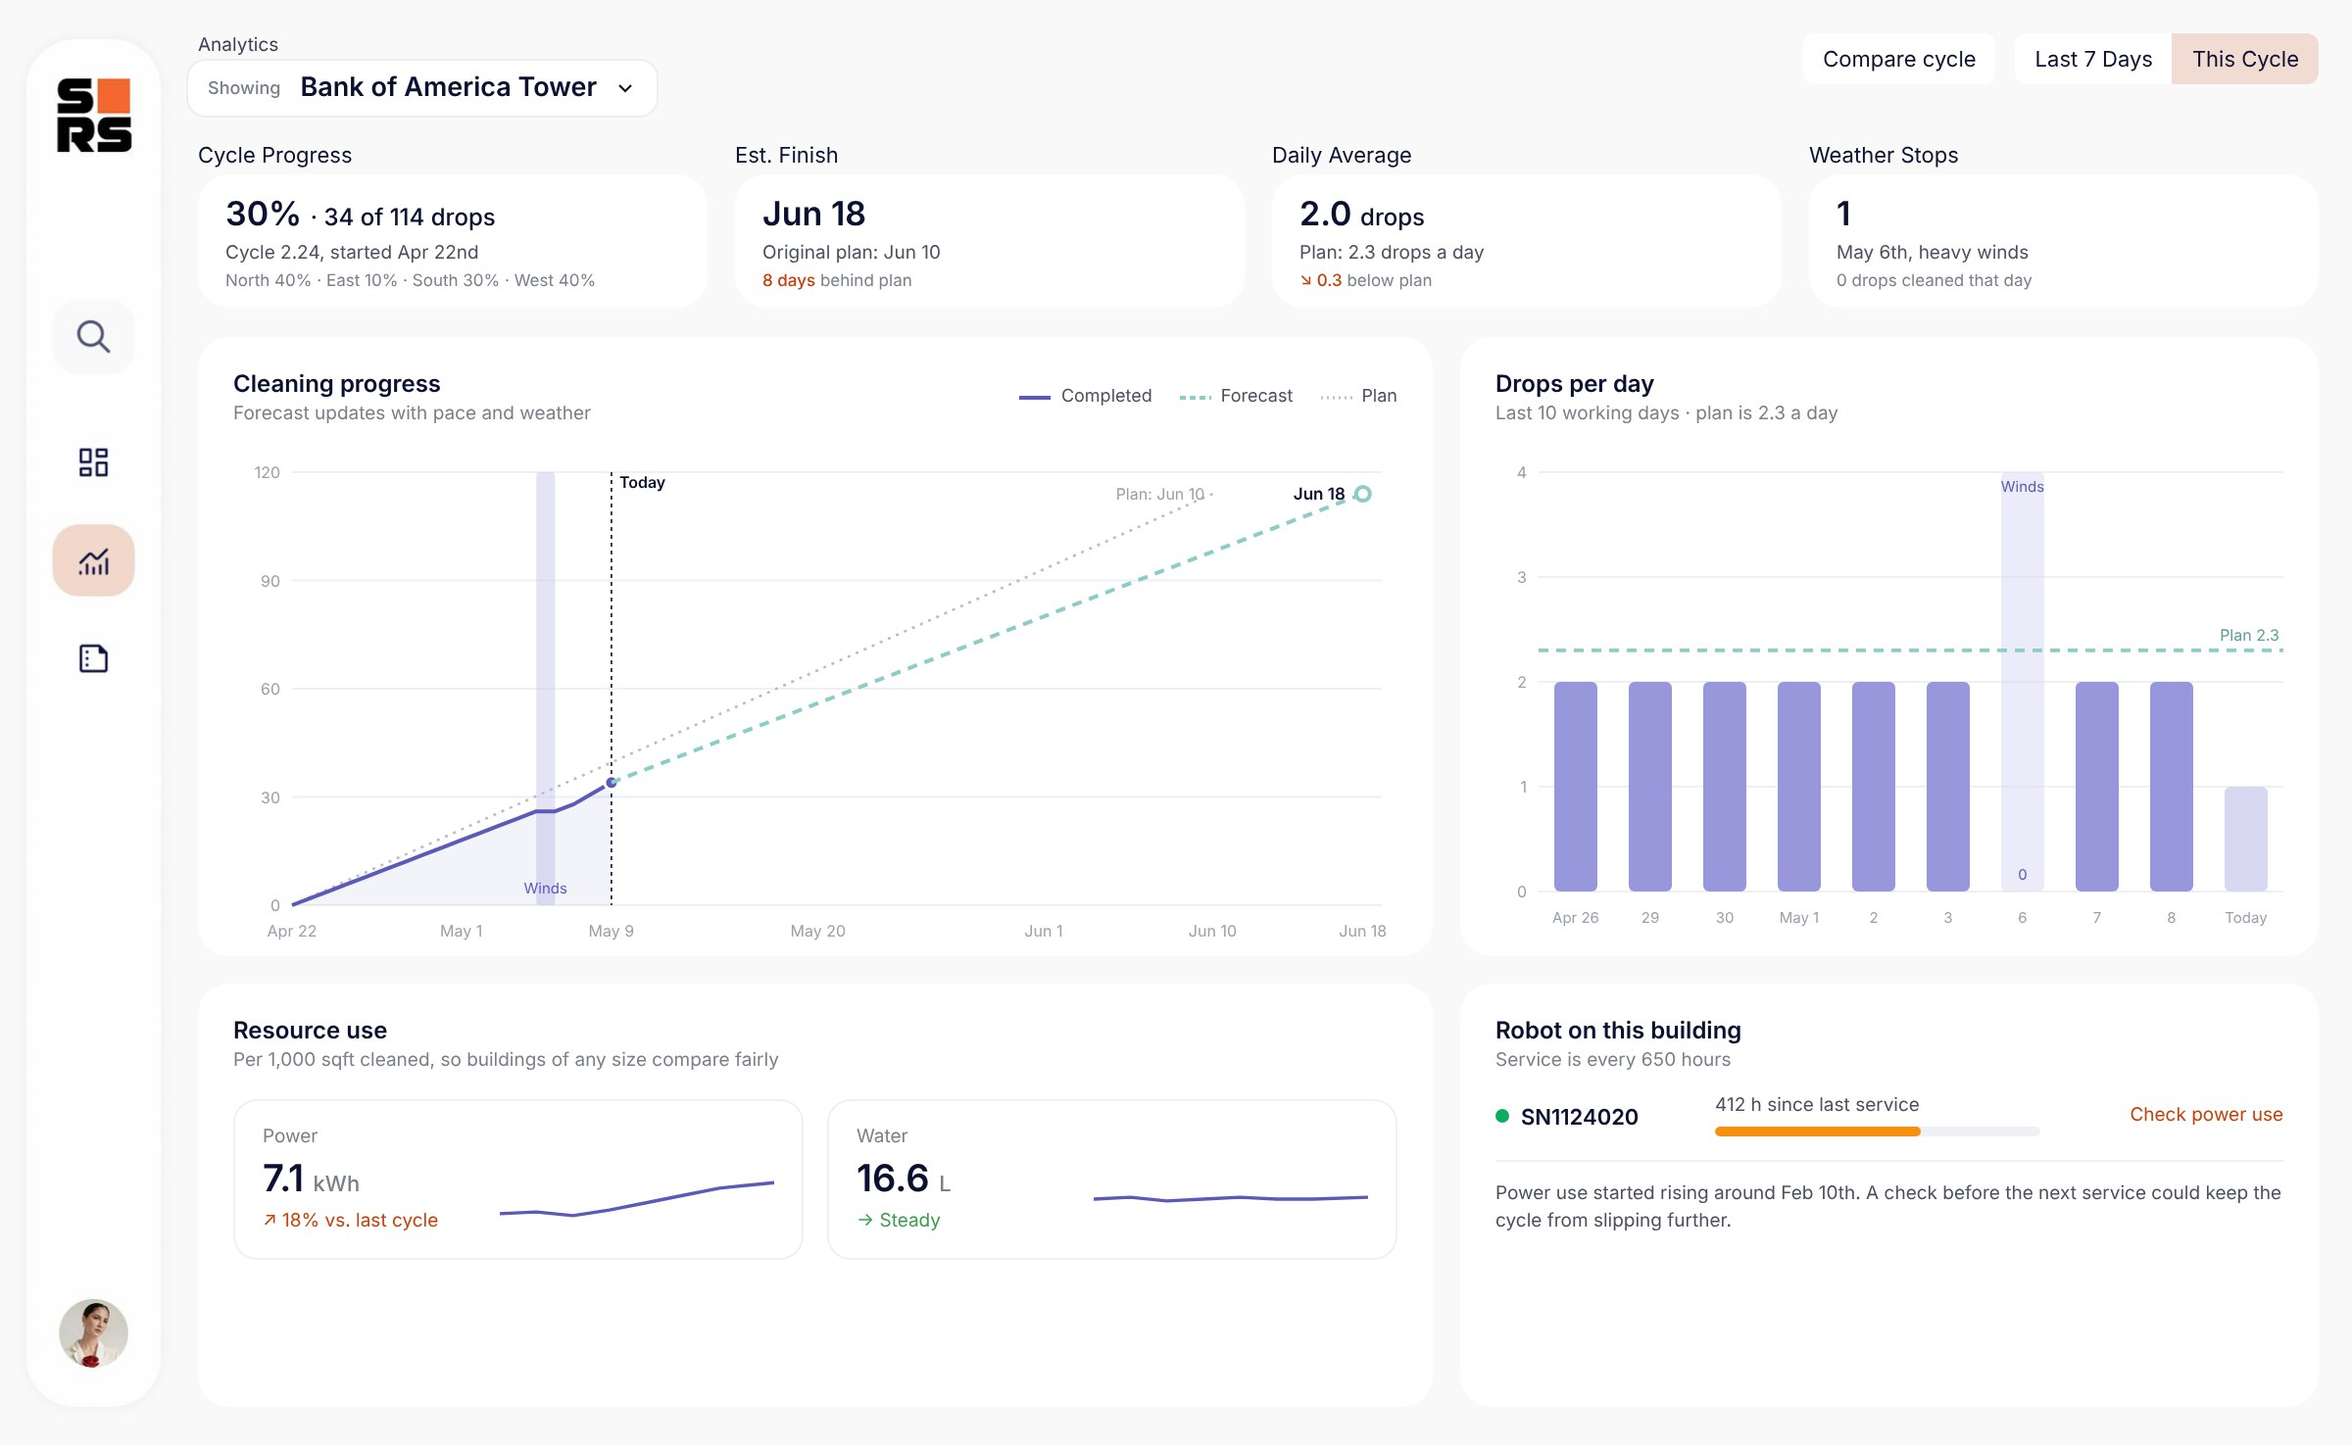
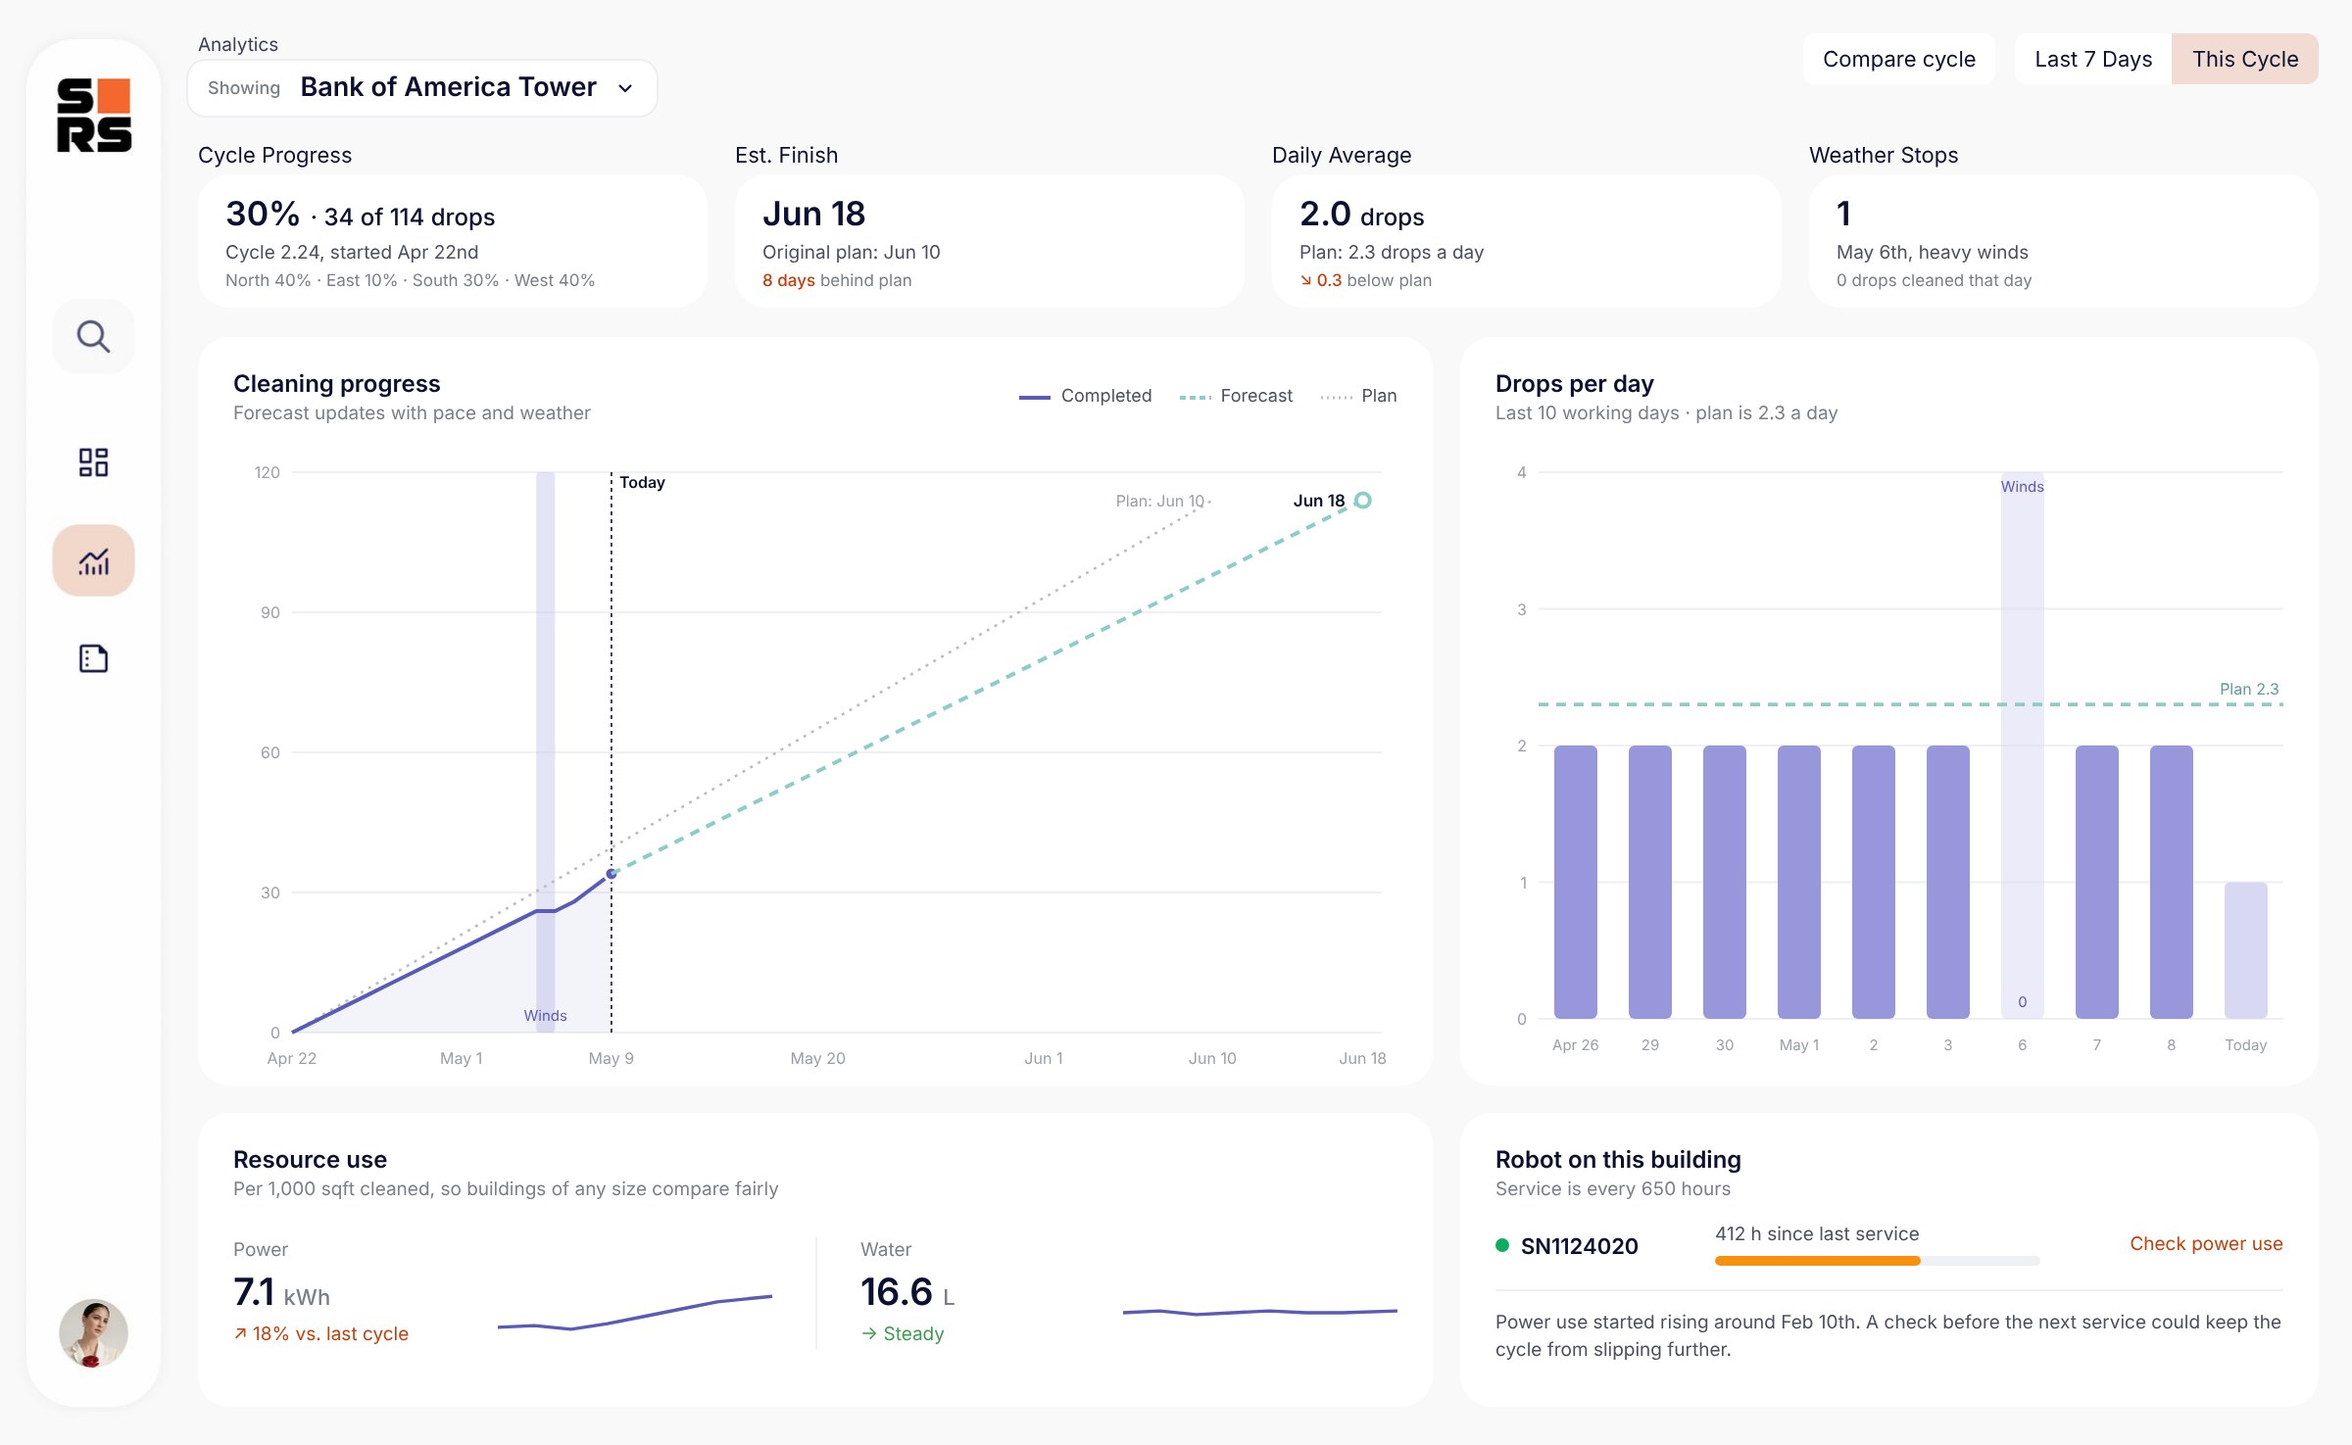
Skyline building analytics: flat resource columns, taller charts
Also version the updated screenshots so browsers load the new ones.

Claude-Session: https://claude.ai/code/session_01J9yPeBdVcBmf13JRMLxGDT

diff --git a/skyline.html b/skyline.html
@@ -86,7 +86,7 @@
     <p class="eyebrow">The platform</p>
     <h2>From the whole fleet down to a single window</h2>
     
-    <div class="stack" style="margin-top: clamp(40px, 5vw, 64px)"><div class="step"><p class="steplabel">The way in</p><h3 class="subhead">Login: Facade Analytics</h3><p class="lead">A simple sign-in screen. The illustration shows the idea behind the product: seeing what happens on the outside of the building.</p><div class="shot"><img src="/img/skyline/login.jpg" alt="Login screen: “Welcome to Skyline’s Facade Analytics. Data, outside the four walls” next to the sign-in form" width="2400" height="1467" loading="lazy" decoding="async"></div></div><div class="step"><p class="steplabel">Level 1 · Entry point</p><h3 class="subhead">Global Fleet Overview</h3><p class="lead">The owner’s entry point answers one question first: is anything wrong right now? What needs attention sits above the areas, and the areas are sorted by priority.</p><div class="shot"><img src="/img/skyline/fleet.jpg" alt="Fleet overview: savings, robots online, cycles on time and robot utilization; a Needs your attention list with a building paused for 5 days and a building running 8 days late; and areas sorted by priority with buildings on schedule, robots online, weather and buildings" width="2400" height="1475" loading="lazy" decoding="async"></div><ul class="callouts" style="--cols: 3"><li><h3>KPI cards</h3><p>Savings, robots online, cycles on time and robot utilization, each with its trend.</p></li><li><h3>Needs your attention</h3><p>Buildings at risk of missing a customer deadline, with the reason and a link to the building.</p></li><li><h3>Areas by priority</h3><p>Critical first, with a color edge, buildings on schedule, robots online and live weather per area.</p></li></ul></div><div class="step"><p class="steplabel">Level 2 · Regional</p><h3 class="subhead">Regional Drill-Down (NYC)</h3><p class="lead">The area manager’s entry point: buildings that need attention come first, each with the reason, next to a map with the same statuses.</p><div class="shot"><img src="/img/skyline/region.jpg" alt="New York region: buildings that need attention listed first with the reason, the rest with cleaning progress, next to a city map with status pins" width="2400" height="1475" loading="lazy" decoding="async"></div><ul class="callouts" style="--cols: 3"><li><h3>Reason, not just status</h3><p>Each warning says what happened, like an open window or low water pressure.</p></li><li><h3>Summary bar</h3><p>Buildings, cleaning now, needs attention and robots online, at a glance.</p></li><li><h3>Weather widget</h3><p>Temperature and wind, right next to the buildings.</p></li></ul></div><div class="step"><p class="steplabel">Level 3 · Building detail</p><h3 class="subhead">Building Deep-Dive</h3><p class="lead">Window-by-window progress for a single building, with overall progress, an estimated finish date and a cleaning log that records every day of the cycle, including weather stops.</p><div class="shot"><img src="/img/skyline/building.jpg" alt="Single building view: cleaning log with a heavy-winds stop, facade tabs above a window grid of the north facade, and overall progress with today’s drops" width="2400" height="1475" loading="lazy" decoding="async"></div><ul class="callouts" style="--cols: 3"><li><h3>Facade tabs</h3><p>North, east, south and west, each with its own progress.</p></li><li><h3>Window grid</h3><p>The facade as a grid, with the live cleaning status of every window.</p></li><li><h3>Today</h3><p>Drops done, in progress and next, and whether the day is on track.</p></li></ul></div><div class="step"><p class="steplabel">Building setup</p><h3 class="subhead">Building Onboarding</h3><p class="lead">Every window in the view above has to be mapped before a robot can start. I designed the screen where the operator enters it on-site, with no developer in between: one drop, duplicated across the facade, with soft checks that catch typos before they reach the robot.</p><div class="proto-video"><video src="/img/building-onboarding/prototype.mp4" poster="/img/building-onboarding/prototype-poster.jpg" width="1440" height="900" autoplay muted loop playsinline preload="metadata" aria-label="Walkthrough of the Add New Building screen: a soft check catches a 12 m window width, the window sequence is edited live on the facade, and the facade is duplicated to a shorter side"></video></div><script>(function(){var v=document.currentScript.previousElementSibling.querySelector("video");if(matchMedia("(prefers-reduced-motion: reduce)").matches){v.removeAttribute("autoplay");v.pause();v.controls=true}})()</script><a class="link-card" href="/building-onboarding"><span><b>Building Onboarding</b> · Read the full case study</span><svg width="14" height="14" viewBox="0 0 16 16" fill="none" aria-hidden="true"><path d="M3 8h9M8.5 4.5 12 8l-3.5 3.5" stroke="currentColor" stroke-width="1.5" stroke-linecap="square"/></svg></a></div><div class="step"><p class="steplabel">Level 4 · Analytics</p><h3 class="subhead">Analytics for the fleet or a single building</h3><p class="lead">One analytics screen with a switch at the top. All buildings shows the business view an owner needs. A single building shows why it’s behind.</p><div class="shot"><img src="/img/skyline/analytics.jpg" alt="Fleet analytics: savings, utilization, cycles on time and cost per 1,000 sqft; where robot time goes; the five buildings to look at; savings over the year; cycles finished on time against the target" width="2400" height="1475" loading="lazy" decoding="async"></div><div class="shot"><img src="/img/skyline/analytics-building.jpg" alt="Single building analytics: progress against plan with a forecast finish date, drops per day, resource use and the robot’s service status" width="2400" height="1475" loading="lazy" decoding="async"></div><ul class="callouts" style="--cols: 3"><li><h3>Business view</h3><p>Savings, robot utilization, cycles on time and cost per 1,000 sqft, each with its trend.</p></li><li><h3>Buildings to look at</h3><p>The five buildings most out of range, and why, one click from their analytics.</p></li><li><h3>Building view</h3><p>Progress against the plan with a forecast finish date, daily pace and the robot’s service status.</p></li></ul></div><div class="step"><p class="steplabel">Level 4 · Reports</p><h3 class="subhead">Operational analytics</h3><p class="lead">Performance scores, completed drops and water consumption per building, for client and sustainability reporting.</p><div class="shot"><img src="/img/skyline/reports.jpg" alt="Report view with performance scores, completed drops and water consumption per building" width="2400" height="1475" loading="lazy" decoding="async"></div><ul class="callouts" style="--cols: 3"><li><h3>Performance scores</h3><p>Actual against expected performance, per building.</p></li><li><h3>Completed drops</h3><p>Historical data on completed operations.</p></li><li><h3>Water consumption</h3><p>Usage per day, with anomaly alerts for unusual use.</p></li></ul></div></div>
+    <div class="stack" style="margin-top: clamp(40px, 5vw, 64px)"><div class="step"><p class="steplabel">The way in</p><h3 class="subhead">Login: Facade Analytics</h3><p class="lead">A simple sign-in screen. The illustration shows the idea behind the product: seeing what happens on the outside of the building.</p><div class="shot"><img src="/img/skyline/login.jpg" alt="Login screen: “Welcome to Skyline’s Facade Analytics. Data, outside the four walls” next to the sign-in form" width="2400" height="1467" loading="lazy" decoding="async"></div></div><div class="step"><p class="steplabel">Level 1 · Entry point</p><h3 class="subhead">Global Fleet Overview</h3><p class="lead">The owner’s entry point answers one question first: is anything wrong right now? What needs attention sits above the areas, and the areas are sorted by priority.</p><div class="shot"><img src="/img/skyline/fleet.jpg?v=3" alt="Fleet overview: savings, robots online, cycles on time and robot utilization; a Needs your attention list with a building paused for 5 days and a building running 8 days late; and areas sorted by priority with buildings on schedule, robots online, weather and buildings" width="2400" height="1475" loading="lazy" decoding="async"></div><ul class="callouts" style="--cols: 3"><li><h3>KPI cards</h3><p>Savings, robots online, cycles on time and robot utilization, each with its trend.</p></li><li><h3>Needs your attention</h3><p>Buildings at risk of missing a customer deadline, with the reason and a link to the building.</p></li><li><h3>Areas by priority</h3><p>Critical first, with a color edge, buildings on schedule, robots online and live weather per area.</p></li></ul></div><div class="step"><p class="steplabel">Level 2 · Regional</p><h3 class="subhead">Regional Drill-Down (NYC)</h3><p class="lead">The area manager’s entry point: buildings that need attention come first, each with the reason, next to a map with the same statuses.</p><div class="shot"><img src="/img/skyline/region.jpg" alt="New York region: buildings that need attention listed first with the reason, the rest with cleaning progress, next to a city map with status pins" width="2400" height="1475" loading="lazy" decoding="async"></div><ul class="callouts" style="--cols: 3"><li><h3>Reason, not just status</h3><p>Each warning says what happened, like an open window or low water pressure.</p></li><li><h3>Summary bar</h3><p>Buildings, cleaning now, needs attention and robots online, at a glance.</p></li><li><h3>Weather widget</h3><p>Temperature and wind, right next to the buildings.</p></li></ul></div><div class="step"><p class="steplabel">Level 3 · Building detail</p><h3 class="subhead">Building Deep-Dive</h3><p class="lead">Window-by-window progress for a single building, with overall progress, an estimated finish date and a cleaning log that records every day of the cycle, including weather stops.</p><div class="shot"><img src="/img/skyline/building.jpg" alt="Single building view: cleaning log with a heavy-winds stop, facade tabs above a window grid of the north facade, and overall progress with today’s drops" width="2400" height="1475" loading="lazy" decoding="async"></div><ul class="callouts" style="--cols: 3"><li><h3>Facade tabs</h3><p>North, east, south and west, each with its own progress.</p></li><li><h3>Window grid</h3><p>The facade as a grid, with the live cleaning status of every window.</p></li><li><h3>Today</h3><p>Drops done, in progress and next, and whether the day is on track.</p></li></ul></div><div class="step"><p class="steplabel">Building setup</p><h3 class="subhead">Building Onboarding</h3><p class="lead">Every window in the view above has to be mapped before a robot can start. I designed the screen where the operator enters it on-site, with no developer in between: one drop, duplicated across the facade, with soft checks that catch typos before they reach the robot.</p><div class="proto-video"><video src="/img/building-onboarding/prototype.mp4" poster="/img/building-onboarding/prototype-poster.jpg" width="1440" height="900" autoplay muted loop playsinline preload="metadata" aria-label="Walkthrough of the Add New Building screen: a soft check catches a 12 m window width, the window sequence is edited live on the facade, and the facade is duplicated to a shorter side"></video></div><script>(function(){var v=document.currentScript.previousElementSibling.querySelector("video");if(matchMedia("(prefers-reduced-motion: reduce)").matches){v.removeAttribute("autoplay");v.pause();v.controls=true}})()</script><a class="link-card" href="/building-onboarding"><span><b>Building Onboarding</b> · Read the full case study</span><svg width="14" height="14" viewBox="0 0 16 16" fill="none" aria-hidden="true"><path d="M3 8h9M8.5 4.5 12 8l-3.5 3.5" stroke="currentColor" stroke-width="1.5" stroke-linecap="square"/></svg></a></div><div class="step"><p class="steplabel">Level 4 · Analytics</p><h3 class="subhead">Analytics for the fleet or a single building</h3><p class="lead">One analytics screen with a switch at the top. All buildings shows the business view an owner needs. A single building shows why it’s behind.</p><div class="shot"><img src="/img/skyline/analytics.jpg?v=3" alt="Fleet analytics: savings, utilization, cycles on time and cost per 1,000 sqft; where robot time goes; the five buildings to look at; savings over the year; cycles finished on time against the target" width="2400" height="1475" loading="lazy" decoding="async"></div><div class="shot"><img src="/img/skyline/analytics-building.jpg?v=3" alt="Single building analytics: progress against plan with a forecast finish date, drops per day, resource use and the robot’s service status" width="2400" height="1475" loading="lazy" decoding="async"></div><ul class="callouts" style="--cols: 3"><li><h3>Business view</h3><p>Savings, robot utilization, cycles on time and cost per 1,000 sqft, each with its trend.</p></li><li><h3>Buildings to look at</h3><p>The five buildings most out of range, and why, one click from their analytics.</p></li><li><h3>Building view</h3><p>Progress against the plan with a forecast finish date, daily pace and the robot’s service status.</p></li></ul></div><div class="step"><p class="steplabel">Level 4 · Reports</p><h3 class="subhead">Operational analytics</h3><p class="lead">Performance scores, completed drops and water consumption per building, for client and sustainability reporting.</p><div class="shot"><img src="/img/skyline/reports.jpg" alt="Report view with performance scores, completed drops and water consumption per building" width="2400" height="1475" loading="lazy" decoding="async"></div><ul class="callouts" style="--cols: 3"><li><h3>Performance scores</h3><p>Actual against expected performance, per building.</p></li><li><h3>Completed drops</h3><p>Historical data on completed operations.</p></li><li><h3>Water consumption</h3><p>Usage per day, with anomaly alerts for unusual use.</p></li></ul></div></div>
   </div>
 </section>
 <section class="section">
